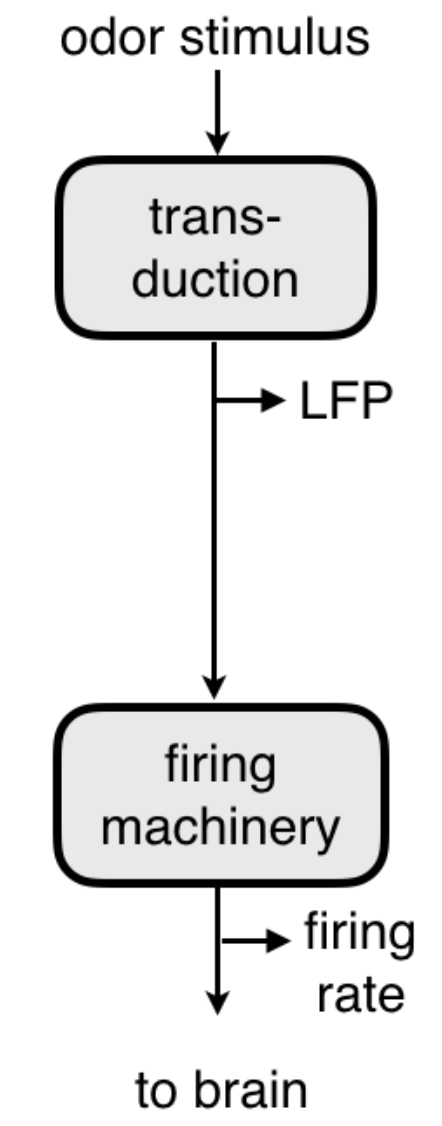
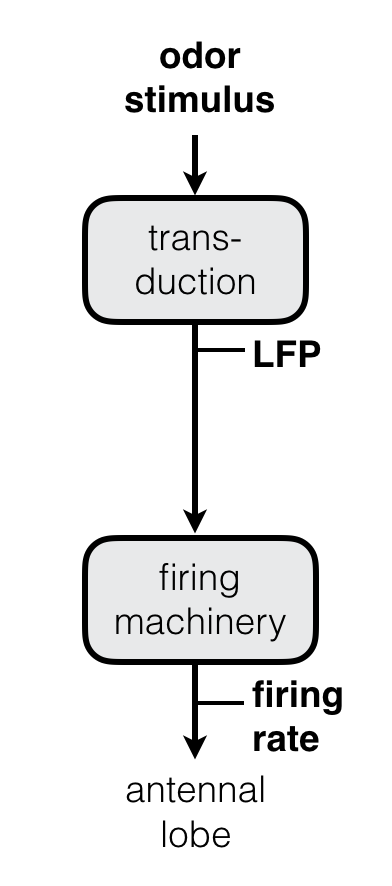
updated some figures, new graphics, etc.

Changed region(s): [[0.0918, 0.0, 0.949, 1.0], [0.1224, 0.0, 0.3673, 0.0609]]

diff --git a/paper-figures/fig_LFP.m b/paper-figures/fig_LFP.m
@@ -5,7 +5,7 @@ pHeader;
 dm = dataManager;
 
 
-figure('outerposition',[0 0 1700 700],'PaperUnits','points','PaperSize',[1700 700]); hold on
+figure('outerposition',[0 0 1600 720],'PaperUnits','points','PaperSize',[1600 720]); hold on
 
 
 [PID, LFP, fA, paradigm,~, ~, AllControlParadigms] = consolidateData(dm.getPath('bf79dfd769a97089e42beb0660174e84'),1);
@@ -71,24 +71,22 @@ ss = 100;
 c = parula(max(paradigm)+1);
 mean_stim = nanmean(PID(a:z,:));
 ms = [min(mean_stim) max(mean_stim)];
-subplot(2,5,1), hold on
+ax(2) = subplot(2,5,2); hold on
 for i = 1:max(paradigm) % iterate over all paradigms 
 	y = nanmean(filtered_LFP(a:z,paradigm == i),2);
 	x = nanmean(K1p(a:z,paradigm == i),2);
 	x = x - nanmean(x);
-	% s = nanmean(PID(a:z,paradigm==i),2);
-	% x = x + nanmean(s);
 	plotPieceWiseLinear(x,y,'nbins',50,'Color',c(i,:));
 end
 xlabel('Projected Stimulus (V)')
 ylabel('\DeltaLPF (mV)')
 
 % show transduction gain
-subplot(2,5,2), hold on
+ax(3) = subplot(2,5,3); hold on
 for i = 1:length(paradigm)
 	plot(mean_stim(i),K1_gain(i),'+','Color',c(paradigm(i),:))
 end
-xlabel('\mu_{Stimulus} (V)')
+xlabel('\mu_{Odor} (V)')
 ylabel('Transduction Gain (mV/V)')
 set(gca,'XScale','log','YScale','log')
 ff = fit(mean_stim(:),K1_gain(:),'power1','Upper',[Inf -1],'Lower',[0 -1]);
@@ -99,7 +97,7 @@ th = text(.8, 10,'$\sim 1/s$','interpreter','latex','Color','r','FontSize',20);
 
 
 % show firing machinery I/o curves
-subplot(2,5,6), hold on
+ax(7) = subplot(2,5,7); hold on
 for i = 1:max(paradigm) % iterate over all paradigms 
 	y = nanmean(fA(a:z,paradigm == i),2);
 	x = .1*nanmean(K2p(a:z,paradigm == i),2);
@@ -109,12 +107,12 @@ end
 xlabel('Projected LFP (mV)')
 ylabel('Firing Rate (Hz)')
 
-
-subplot(2,5,7), hold on
+% show firing machinery gain
+ax(8) = subplot(2,5,8); hold on
 for i = 1:length(paradigm)
 	plot(mean_stim(i),10*K2_gain(i),'+','Color',c(paradigm(i),:))
 end
-xlabel('\mu_{Stimulus} (V)')
+xlabel('\mu_{Odor} (V)')
 ylabel('Firing Gain (Hz/mV)')
 set(gca,'XScale','log','YScale','log','YLim',[1 1e2],'XLim',[.1 2])
 
@@ -217,8 +215,6 @@ min_r2 = .8;
 % compute gains per trial
 lo_gain_LFP = NaN(width(reshaped_PID),1);
 hi_gain_LFP = NaN(width(reshaped_PID),1);
-lo_gain_firing = NaN(width(reshaped_PID),1);
-hi_gain_firing = NaN(width(reshaped_PID),1);
 for i = 1:width(reshaped_PID)
 	y = reshaped_LFP(1e3:4e3,i);
 	x = K1p(1e3:4e3,i);
@@ -235,50 +231,38 @@ for i = 1:width(reshaped_PID)
 		lo_gain_LFP(i) = ff.p1;
 	catch
 	end
-
-	% y = reshaped_fA(1e3:4e3,i);
-	% x = K2p(1e3:4e3,i);
-	% try
-	% 	ff = fit(x(:),y(:),'poly1');
-	% 	hi_gain_firing(i) = ff.p1;
-	% catch
-	% end
-
-	% y = reshaped_fA(6e3:9e3,i);
-	% x = K2p(6e3:9e3,i);
-	% try
-	% 	ff = fit(x(:),y(:),'poly1');
-	% 	lo_gain_firing(i) = ff.p1;
-	% catch
-	% end
 end
 
 % compute firing rate gains using Hill functions
-for i = 1:width(reshaped_PID)
-	if ~being_published
-		textbar(i,width(reshaped_PID))
-	end
-	y = reshaped_fA(1e3:4e3,i); s = nanmax(y); 	y = y/s;
-	x = K2p(1e3:4e3,i);
-	try
-		ft = fittype('hill2(x,k,n,x_offset)');
-		ff = fit(x(:),y(:),ft,'StartPoint',[nanmax(x)/2 2 nanmean(x)],'Lower',[0 1 -Inf],'Upper',[nanmax(x) 10 nanmax(x)],'MaxIter',1e4);
-		hi_gain_firing(i) = s*differentiate(ff,ff.k + ff.x_offset);
-	catch
-	end
+if ~exist('lo_gain_firing','var')
+	lo_gain_firing = NaN(width(reshaped_PID),1);
+	hi_gain_firing = NaN(width(reshaped_PID),1);
+	for i = 1:width(reshaped_PID)
+		if ~being_published
+			textbar(i,width(reshaped_PID))
+		end
+		y = reshaped_fA(1e3:4e3,i); s = nanmax(y); 	y = y/s;
+		x = K2p(1e3:4e3,i);
+		try
+			ft = fittype('hill2(x,k,n,x_offset)');
+			ff = fit(x(:),y(:),ft,'StartPoint',[nanmax(x)/2 2 nanmean(x)],'Lower',[0 1 -Inf],'Upper',[nanmax(x) 10 nanmax(x)],'MaxIter',1e4);
+			hi_gain_firing(i) = s*differentiate(ff,ff.k + ff.x_offset);
+		catch
+		end
 
-	y = reshaped_fA(6e3:9e3,i); s = nanmax(y); 	y = y/s;
-	x = K2p(6e3:9e3,i);
-	try
-		ft = fittype('hill2(x,k,n,x_offset)');
-		ff = fit(x(:),y(:),ft,'StartPoint',[nanmax(x)/2 2 nanmean(x)],'Lower',[0 1 -Inf],'Upper',[nanmax(x) 10 nanmax(x)],'MaxIter',1e4);
-		lo_gain_firing(i) = s*differentiate(ff,ff.k + ff.x_offset);
-	catch
+		y = reshaped_fA(6e3:9e3,i); s = nanmax(y); 	y = y/s;
+		x = K2p(6e3:9e3,i);
+		try
+			ft = fittype('hill2(x,k,n,x_offset)');
+			ff = fit(x(:),y(:),ft,'StartPoint',[nanmax(x)/2 2 nanmean(x)],'Lower',[0 1 -Inf],'Upper',[nanmax(x) 10 nanmax(x)],'MaxIter',1e4);
+			lo_gain_firing(i) = s*differentiate(ff,ff.k + ff.x_offset);
+		catch
+		end
 	end
 end
 
 % plot transduction i/o curves
-subplot(2,5,4), hold on
+ax(4) = subplot(2,5,4); hold on
 x = K1p(1e3:4e3,:);
 y = reshaped_LFP(1e3:4e3,:);
 rm_this = (isnan(sum(y)) | isnan(sum(x)) | (r2_K1p < min_r2)');
@@ -305,17 +289,17 @@ xlabel('Projected Stimulus (V)')
 ylabel('\DeltaLPF (mV)')
 
 % plot transduction gain change
-subplot(2,5,5), hold on
+ax(5) = subplot(2,5,5); hold on
 x = std(reshaped_PID(1e3:4e3,r2_K1p>.8));
 plot(x,hi_gain_LFP(r2_K1p>.8),'r+')
 x = std(reshaped_PID(6e3:9e3,r2_K1p>.8));
 plot(x,lo_gain_LFP(r2_K1p>.8),'b+')
-xlabel('\sigma_{Stimulus} (V)')
+xlabel('\sigma_{Odor} (V)')
 ylabel('Transduction Gain (mV/V)')
 
 
 % show firing i/o curves
-subplot(2,5,9), hold on
+ax(9) = subplot(2,5,9); hold on
 x = K2p(1e3:4e3,:);
 y = reshaped_fA(1e3:4e3,:);
 rm_this = (isnan(sum(y)) | isnan(sum(x)) | (r2_K2p < min_r2)');
@@ -340,16 +324,16 @@ xlabel('Projected LFP (mV)')
 ylabel('Firing Rate (Hz)')
 
 % plot firing gain change
-subplot(2,5,10), hold on
+ax(10) = subplot(2,5,10); hold on
 x = std(reshaped_PID(1e3:4e3,r2_K2p>.8));
 plot(x,hi_gain_firing(r2_K2p>.8),'r+')
 x = std(reshaped_PID(6e3:9e3,r2_K2p>.8));
 plot(x,lo_gain_firing(r2_K2p>.8),'b+')
-xlabel('\sigma_{Stimulus} (V)')
+xlabel('\sigma_{Odor} (V)')
 ylabel('Firing Gain (Hz/mV)')
 
 % add an explanatory graphic
-subplot(1,5,3), hold on
+ax(1) = subplot(1,5,1); hold on
 o = imread('../images/fig-LFP-cartoon.png');
 imagesc(o);
 axis ij
@@ -357,8 +341,84 @@ axis image
 axis off
 
 prettyFig('fs',16)
-labelFigure
+
+% plot example traces of the LFP, firing rate and the stimulus
+inset1 = axes;
+inset1.Position = [0.13 0.76 0.1 0.1];
+plot(inset1,1e-3*(1:5e3),reshaped_PID(1:5e3,1),'k','LineWidth',1.5);
+
+inset2 = axes;
+inset2.Position = [0.13 0.54 0.1 0.1];
+plot(inset2,1e-3*(1:5e3),reshaped_LFP(1:5e3,1),'k','LineWidth',1.5);
+
+inset3 = axes;
+inset3.Position = [0.13 0.24 0.1 0.1];
+plot(inset3,1e-3*(1:5e3),reshaped_fA(1:5e3,1),'k','LineWidth',1.5);
+set(inset1,'LineWidth',1.5,'box','off','XLim',[0 5])
+set(inset2,'LineWidth',1.5,'box','off','XLim',[0 5])
+set(inset3,'LineWidth',1.5,'box','off','XLim',[0 5])
+xlabel(inset3,'Time (s)')
+
+% make all the plots square
+for i = 2:length(ax)
+	try
+		axis(ax(i),'square')
+	catch
+	end
+end
+
+% move some plots around
+ax(1).Position(1) = .01;
+
+ax(5).Position(1) = .85;
+ax(4).Position(1) = .68;
+ax(9).Position(1) = .68;
+ax(10).Position(1) = .85;
+
+ax(2).Position(2) = .53;
+ax(3).Position(2) = .53;
+ax(4).Position(2) = .53;
+ax(5).Position(2) = .53;
+
 th.FontSize = 20;
+
+% fake a axes that covers the entire figure
+a = axes;
+a.Position = [0 0 1 1];
+uistack(a,'bottom')
+a.TickLength = [0 0];
+a.XLim = [0 1];
+a.YLim = [0 1];
+
+% draw a couple of rectangles to box things in
+r1 = rectangle('Position',[0.1 0.1 .4 .4],'Curvature',0);
+r1.Position = [.255 .025 .34 .95];
+r1.FaceColor = [.9 .9 .9];
+r1.LineStyle = 'none';
+r1.Parent = a;
+
+r2 = rectangle('Position',[0.1 0.1 .4 .4],'Curvature',0);
+r2.Position = [.64 .025 .345 .95];
+r2.FaceColor = [.9 .9 .9];
+r2.LineStyle = 'none';
+r2.Parent = a;
+
+% add some text
+t1 = text;
+t1.String = 'Changing Stimulus Mean';
+t1.FontSize = 20;
+t1.FontWeight=  'bold';
+t1.Parent = a;
+t1.Position = [0.3500 0.9100 0];
+
+t2 = text;
+t2.String = 'Changing Stimulus Variance';
+t2.FontSize = 20;
+t2.FontWeight=  'bold';
+t2.Parent = a;
+t2.Position = [0.7400 0.9100 0];
+
+
 
 if being_published	
 	snapnow	

diff --git a/paper-figures/fig_naturalistic_stimuli2.m b/paper-figures/fig_naturalistic_stimuli2.m
@@ -96,7 +96,7 @@ fp = convolve(tA,mean(PID,2),K,filtertime);
 clear l
 [ax,plot1,plot2] = plotyy(axes_handles(4),tA,R,tA,fp);
 set(ax(1),'XLim',[0 70],'YLim',[0 120],'YColor','k')
-set(ax(2),'XLim',[0 70],'YLim',[min(fp) max(fp)])
+set(ax(2),'XLim',[0 70],'YLim',[min(fp) max(fp)],'YColor','r')
 set(plot1,'Color','k')
 set(plot2,'Color','r')
 ylabel(ax(1),'ab3A Response (Hz)')
@@ -317,7 +317,7 @@ ylabel(axes_handles(7),'Gain (Hz/V)')
 set(axes_handles(7),'YLim',[10 1e4],'YScale','log','XScale','log','XLim',[.001 10],'XTick',[.001 .01 .1 1 10])
 
 xlabel(axes_handles(8),'\sigma_{Stimulus} in preceding 500ms (V)')
-set(axes_handles(8),'XTick',[1e-4 1e-3 1e-2 1e-1 1 10],'XScale','log','YScale','log','XLim',[1e-4 10],'YLim',[10 1e4])
+set(axes_handles(8),'XTick',[1e-4 1e-3 1e-2 1e-1 1 10],'XScale','log','YScale','log','XLim',[1e-3 10],'YLim',[10 1e4])
 
 % shrink the bottom row a little bit
 for i = 6:9
@@ -417,7 +417,7 @@ ff = fit(x(a:end)',y(a:end)',m,'Upper',[Inf -1.5],'Lower',[-Inf -1.5],'StartPoin
 plot(x,y,'k+')
 plot(x,ff(x),'r')
 ylabel(gca,'Probability')
-set(gca,'YScale','log','XScale','log')
+set(gca,'YScale','log','XScale','log','XTick',[1e1 1e2 1e3 1e4])
 xlabel('Whiff duration (ms)')
 
 % show the blank durations 
@@ -434,7 +434,7 @@ a = 1; m = fittype('a*(x).^n');
 ff = fit(x(a:end)',y(a:end)',m,'Upper',[Inf -1.5],'Lower',[-Inf -1.5],'StartPoint',[300 -1.5]);
 plot(x,y,'k+')
 plot(x,ff(x),'r')
-set(gca,'YScale','log','XScale','log')
+set(gca,'YScale','log','XScale','log','XTick',[1e2 1e3 1e4 1e5])
 xlabel('Blank duration (ms)')
 ylabel(gca,'Probability')
 
@@ -511,7 +511,7 @@ options.Lower = [-Inf -1];
 options.Upper = [Inf -1];
 ff = fit(mean_stim,gain,'power1',options);
 plot(gca,mean_stim,ff(mean_stim),'r')
-set(gca,'XScale','log','YScale','log')
+set(gca,'XScale','log','YScale','log','XTick',[1e-2 1e-1 1e0 1e1])
 ylabel('Gain (Hz/V)')
 xlabel('Mean Stimulus in preceding 500ms')
 title('Gain estimation using white-noise filter')

diff --git a/paper-figures/fig_contrast_adaptation2.m b/paper-figures/fig_contrast_adaptation2.m
@@ -281,7 +281,7 @@ ylabel(ax(6),'ORN Gain (Hz/V)')
 clear l
 l(1) = plot(ax(5),NaN,NaN,'k--');
 l(2) = plot(ax(5),NaN,NaN,'k');
-lh = legend(l,{'Prediction','Measured'},'Location','southeast');
+lh = legend(l,{'c.d.f.','Measured'},'Location','southeast');
 lh.FontSize = 10; lh.Box = 'off';
 
 % now use Laughlin to compute the gains per trial
@@ -308,19 +308,22 @@ for i = 1:width(reshaped_PID)
 	laughlin_lo_gain(i) = ff.p1;
 end
 
-x = std(reshaped_PID(1e3:4e3,:));
-plot(ax(7),x,laughlin_hi_gain,'r+')
-x = std(reshaped_PID(6e3:9e3,:));
-plot(ax(7),x,laughlin_lo_gain,'b+')
 
-% plot(ax(7),laughlin_lo_gain,lo_gain,'b+')
-% plot(ax(7),laughlin_hi_gain,hi_gain,'r+')
-% r2 = rsquare([laughlin_lo_gain; laughlin_hi_gain],[lo_gain; hi_gain]);
-ylabel(ax(7),'Predicted Gain (a.u.)')
-xlabel(ax(7),'\sigma_{Stimulus} (V)')
-% l = plot(ax(7),NaN,NaN,'k+');
-% lh = legend(l,['r^2 = ' oval(r2)]);
-% lh.Location = 'southeast';
+% x = std(reshaped_PID(1e3:4e3,:));
+% plot(ax(7),x,laughlin_hi_gain,'r+')
+% x = std(reshaped_PID(6e3:9e3,:));
+% plot(ax(7),x,laughlin_lo_gain,'b+')
+% ylabel(ax(7),'Predicted Gain (a.u.)')
+% xlabel(ax(7),'\sigma_{Stimulus} (V)')
+
+plot(ax(7),laughlin_lo_gain,lo_gain,'b+')
+plot(ax(7),laughlin_hi_gain,hi_gain,'r+')
+r2 = rsquare([laughlin_lo_gain; laughlin_hi_gain],[lo_gain; hi_gain]);
+ylabel(ax(7),'ORN Gain (Hz/V)')
+xlabel(ax(7),'c.d.f slope (a.u.)')
+l = plot(ax(7),NaN,NaN,'k+');
+lh = legend(l,['r^2 = ' oval(r2)]);
+lh.Location = 'southeast';
 
 % cosmetics
 ax(1).Position(3) = .53;

diff --git a/paper-figures/fig_kinetics.m b/paper-figures/fig_kinetics.m
@@ -310,6 +310,7 @@ ylabel('Lag (ms)')
 
 legend('boxoff')
 prettyFig('fs',18)
+labelFigure
 
 if being_published	
 	snapnow	
